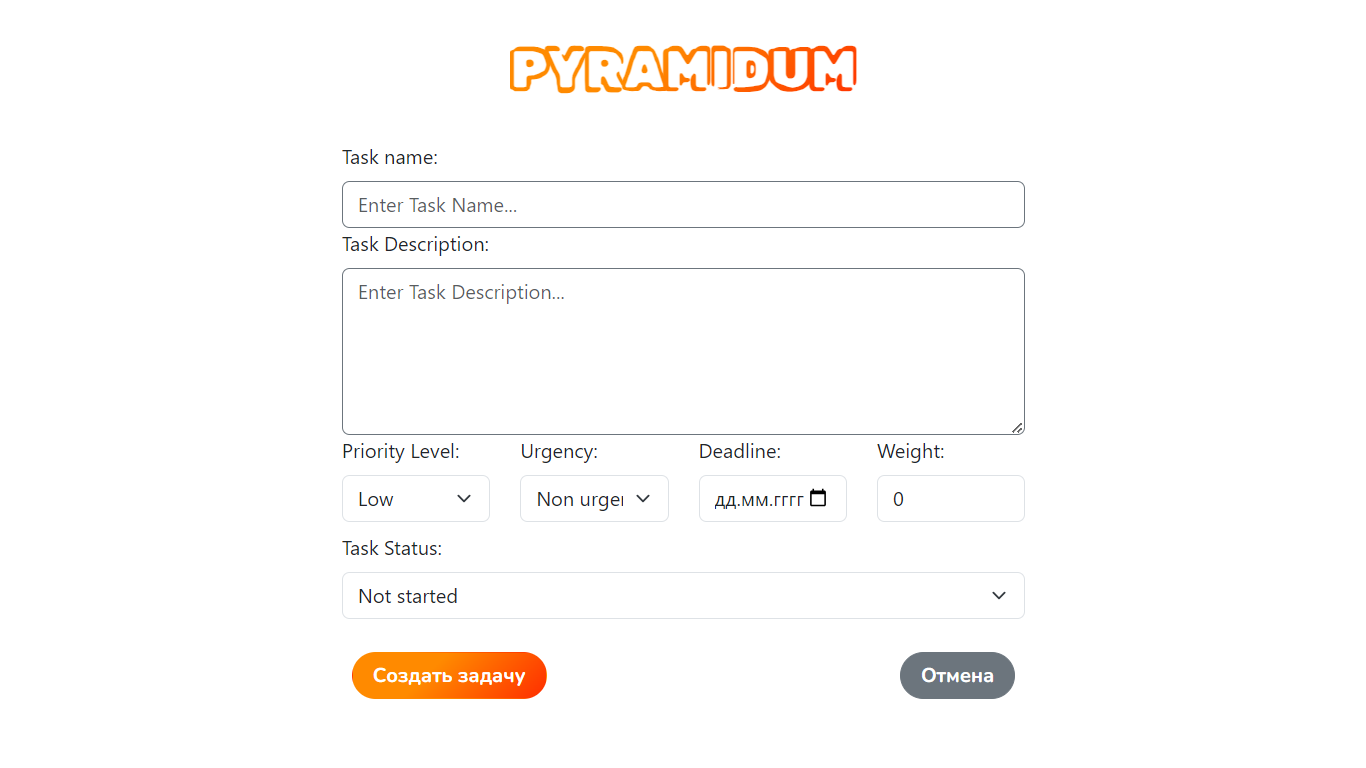
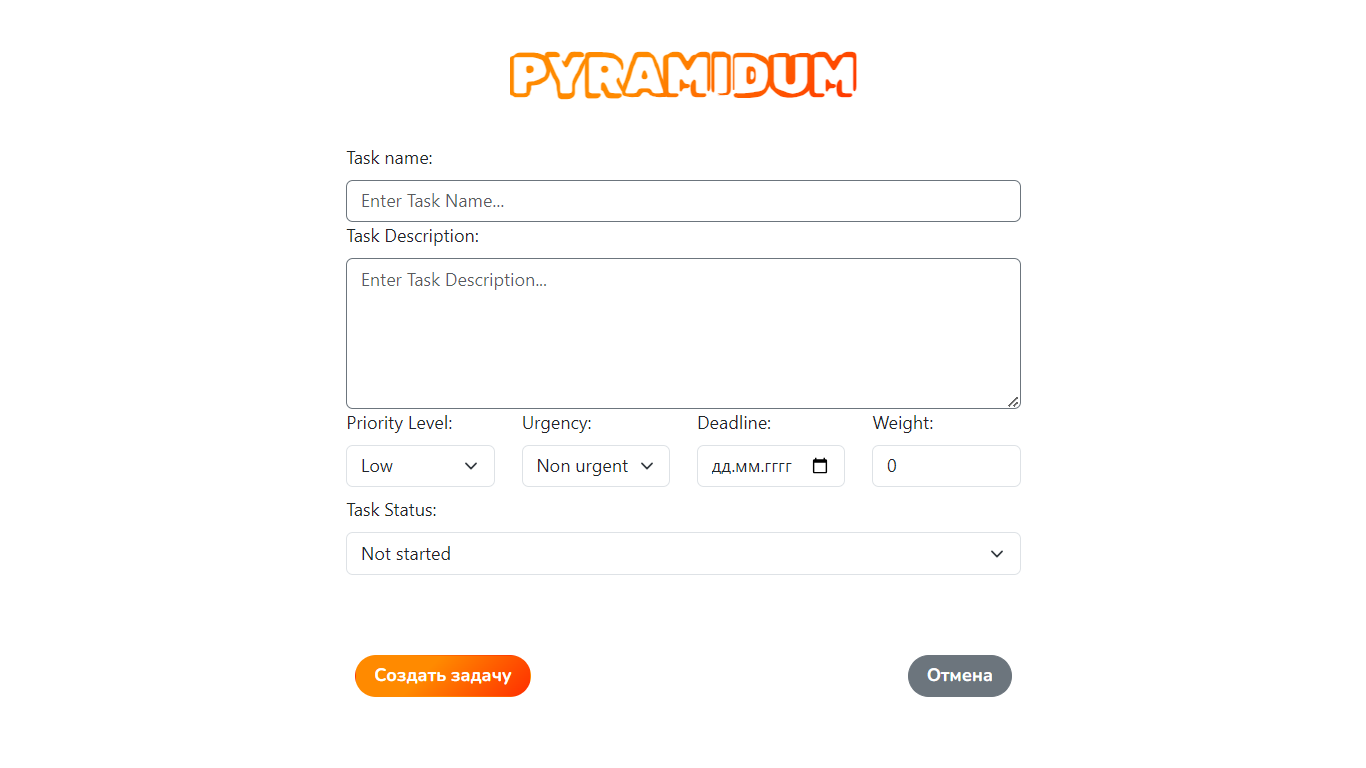
Fix bugs

diff --git a/src/pages/Dashboard.vue b/src/pages/Dashboard.vue
@@ -83,6 +83,16 @@
     },
     
     methods: {
+      noTasks() {
+        if (this.tasks === undefined)
+          return true
+        if (this.tasks === null)
+          return true
+        if (this.tasks.length === 0)
+          return true
+        return false
+      },
+      
       mounted() {
         document.title = 'Dashboard | Pyramidum'
       }
@@ -101,14 +111,8 @@
         </div>
         <div class="pyramidum-dashboard-nav my-2"></div>
       </div>
-      <div v-if="this.tasks" class="pyramidum-dashboard-footer justify-content-center mb-2">
-        <a @click="this.$router.push({name: 'CreateTask'})" class="btn btn-pyramidum rounded-pill fw-bold px-3" href="#">
-          + Создать задачу
-        </a>
-      </div>
-      <div v-else></div>
       <div class="pyramidum-dashboard-content flex-grow-1">
-        <div v-if="!this.tasks" class="pyramidum-dashboard-tasks">
+        <div v-if="noTasks()" class="pyramidum-dashboard-tasks">
           <div  class="pyramidum-dashboard-no-tasks">
             У Вас нет задач
           </div>
@@ -150,12 +154,11 @@
           </div>
         </div>
       </div>
-      <div v-if="!this.tasks" class="pyramidum-dashboard-footer justify-content-center mb-4">
-        <a @click="this.$router.push({name: 'CreateTask'})" class="btn btn-pyramidum rounded-pill fw-bold px-3 my-3" href="#">
+      <div class="pyramidum-dashboard-footer justify-content-center">
+        <a @click="this.$router.push({name: 'CreateTask'})" class="btn btn-pyramidum rounded-pill fw-bold px-3">
           + Создать задачу
         </a>
       </div>
-      <div v-else></div>
     </div>
   </div>
 </template>
@@ -172,7 +175,6 @@
     justify-content: center;
     align-items: center;
     padding: 1.5rem;
-    margin: 1.5rem;
 }
 
 .pyramidum-dashboard-tasks-list {
@@ -220,6 +222,18 @@
     -webkit-text-fill-color: transparent;
     color: var(--pyramidum-tertiary);
     word-spacing: 0.5rem;
+}
+
+.pyramidum-dashboard-footer {
+    display: flex;
+    align-items: center;
+    position: fixed;
+    bottom: 0;
+    left: 0;
+    right: 0;
+    background: white;
+    padding-bottom: .5rem;
+    padding-top: .5rem;
 }
 
 @media (min-width: 768px) {

diff --git a/src/pages/CreateTask.vue b/src/pages/CreateTask.vue
@@ -58,11 +58,11 @@
           <CreateTaskForm />
         </div>
       </div>
-      <div class="pyramidum-dashboard-footer flex-wrap justify-content-center justify-content-sm-between mb-4">
-        <a @click="this.createTask()" class="btn btn-pyramidum rounded-pill fw-bold px-3 my-1 my-sm-3 mx-2" href="#">
+      <div class="d-flex align-center flex-wrap justify-content-center justify-content-sm-between mb-4">
+        <a @click="this.createTask()" class="btn btn-pyramidum rounded-pill fw-bold px-3 my-1 my-sm-3 mx-2">
           Создать задачу
         </a>
-        <a @click="this.$router.push({name: 'Dashboard'})" class="btn btn-secondary btn-cancel rounded-pill fw-bold px-3 my-1 my-sm-3 mx-2" href="#">
+        <a @click="this.$router.push({name: 'Dashboard'})" class="btn btn-secondary rounded-pill fw-bold px-3 my-1 my-sm-3 mx-2">
           Отмена
         </a>
       </div>
@@ -73,8 +73,4 @@
 <style scoped>
 @import "/src/styles/style.css";
 @import "/src/styles/dashboard.css";
-
-.btn-cancel {
-    font-family: var(--pyramidum-base-font-family), sans-serif;
-}
 </style>

diff --git a/src/pages/Login.vue b/src/pages/Login.vue
@@ -88,8 +88,8 @@
               </div>
             </div>
             <p class="text-secondary text-center">
-              <a @click="this.$router.push({name: 'ResetPassword'})" href="#" class="text-secondary">Восстановить доступ</a> |
-              <a @click="this.$router.push({name: 'Register'})" href="#" class="text-secondary">Регистрация</a>
+              <a @click="this.$router.push({name: 'ResetPassword'})" class="text-secondary">Восстановить доступ</a> |
+              <a @click="this.$router.push({name: 'Register'})" class="text-secondary">Регистрация</a>
             </p>
             <div v-if="msg !== ''" class="font-pyramidum text-danger text-center mb-3">{{ msg }}</div>
             <div v-else class="d-none font-pyramidum text-danger text-center mb-3">{{ msg }}</div>

diff --git a/src/pages/Register.vue b/src/pages/Register.vue
@@ -107,8 +107,8 @@
               </div>
             </div>
             <p class="text-center">
-              <a @click="this.$router.push({name: 'Login'})" href="#" class="text-secondary">Войти</a> |
-              <a @click="this.$router.push({name: 'ResetPassword'})" href="#" class="text-secondary">Восстановить доступ</a>
+              <a @click="this.$router.push({name: 'Login'})" class="text-secondary">Войти</a> |
+              <a @click="this.$router.push({name: 'ResetPassword'})" class="text-secondary">Восстановить доступ</a>
             </p>
             <div v-if="msg !== ''" class="font-pyramidum text-danger text-center mb-3">{{ msg }}</div>
             <div v-else class="d-none font-pyramidum text-danger text-center mb-3">{{ msg }}</div>

diff --git a/src/pages/ResetPassword.vue b/src/pages/ResetPassword.vue
@@ -57,8 +57,8 @@
               </div>
             </div>
             <p class="text-center">
-              <a @click="this.$router.push({name: 'Login'})" href="#" class="text-secondary">Войти</a> |
-              <a @click="this.$router.push({name: 'Register'})" href="#" class="text-secondary">Создать аккаунт</a>
+              <a @click="this.$router.push({name: 'Login'})" class="text-secondary">Войти</a> |
+              <a @click="this.$router.push({name: 'Register'})" class="text-secondary">Создать аккаунт</a>
             </p>
             <div v-if="msg !== ''" class="font-pyramidum text-danger text-center mb-3">{{ msg }}</div>
             <div v-else class="d-none font-pyramidum text-danger text-center mb-3">{{ msg }}</div>

diff --git a/src/styles/dashboard.css b/src/styles/dashboard.css
@@ -3,6 +3,7 @@
     display: flex;
     justify-content: center;
     align-items: stretch;
+    padding: .5rem;
 }
 
 .pyramidum-dashboard {
@@ -46,12 +47,8 @@
 .pyramidum-dashboard-content {
     display: flex;
     flex-wrap: wrap;
-    justify-content: stretch;
-}
-
-.pyramidum-dashboard-footer {
-    display: flex;
-    align-items: center;
+    flex-direction: column;
+    align-items: stretch;
 }
 
 @media (min-width: 576px) {

diff --git a/src/styles/style.css b/src/styles/style.css
@@ -31,6 +31,10 @@ body.dashboard, #app.dashboard {
     outline: none;
 }
 
+.btn {
+    font-family: var(--pyramidum-base-font-family), sans-serif;
+}
+
 @media (min-width: 576px) {
     :root {
     }
